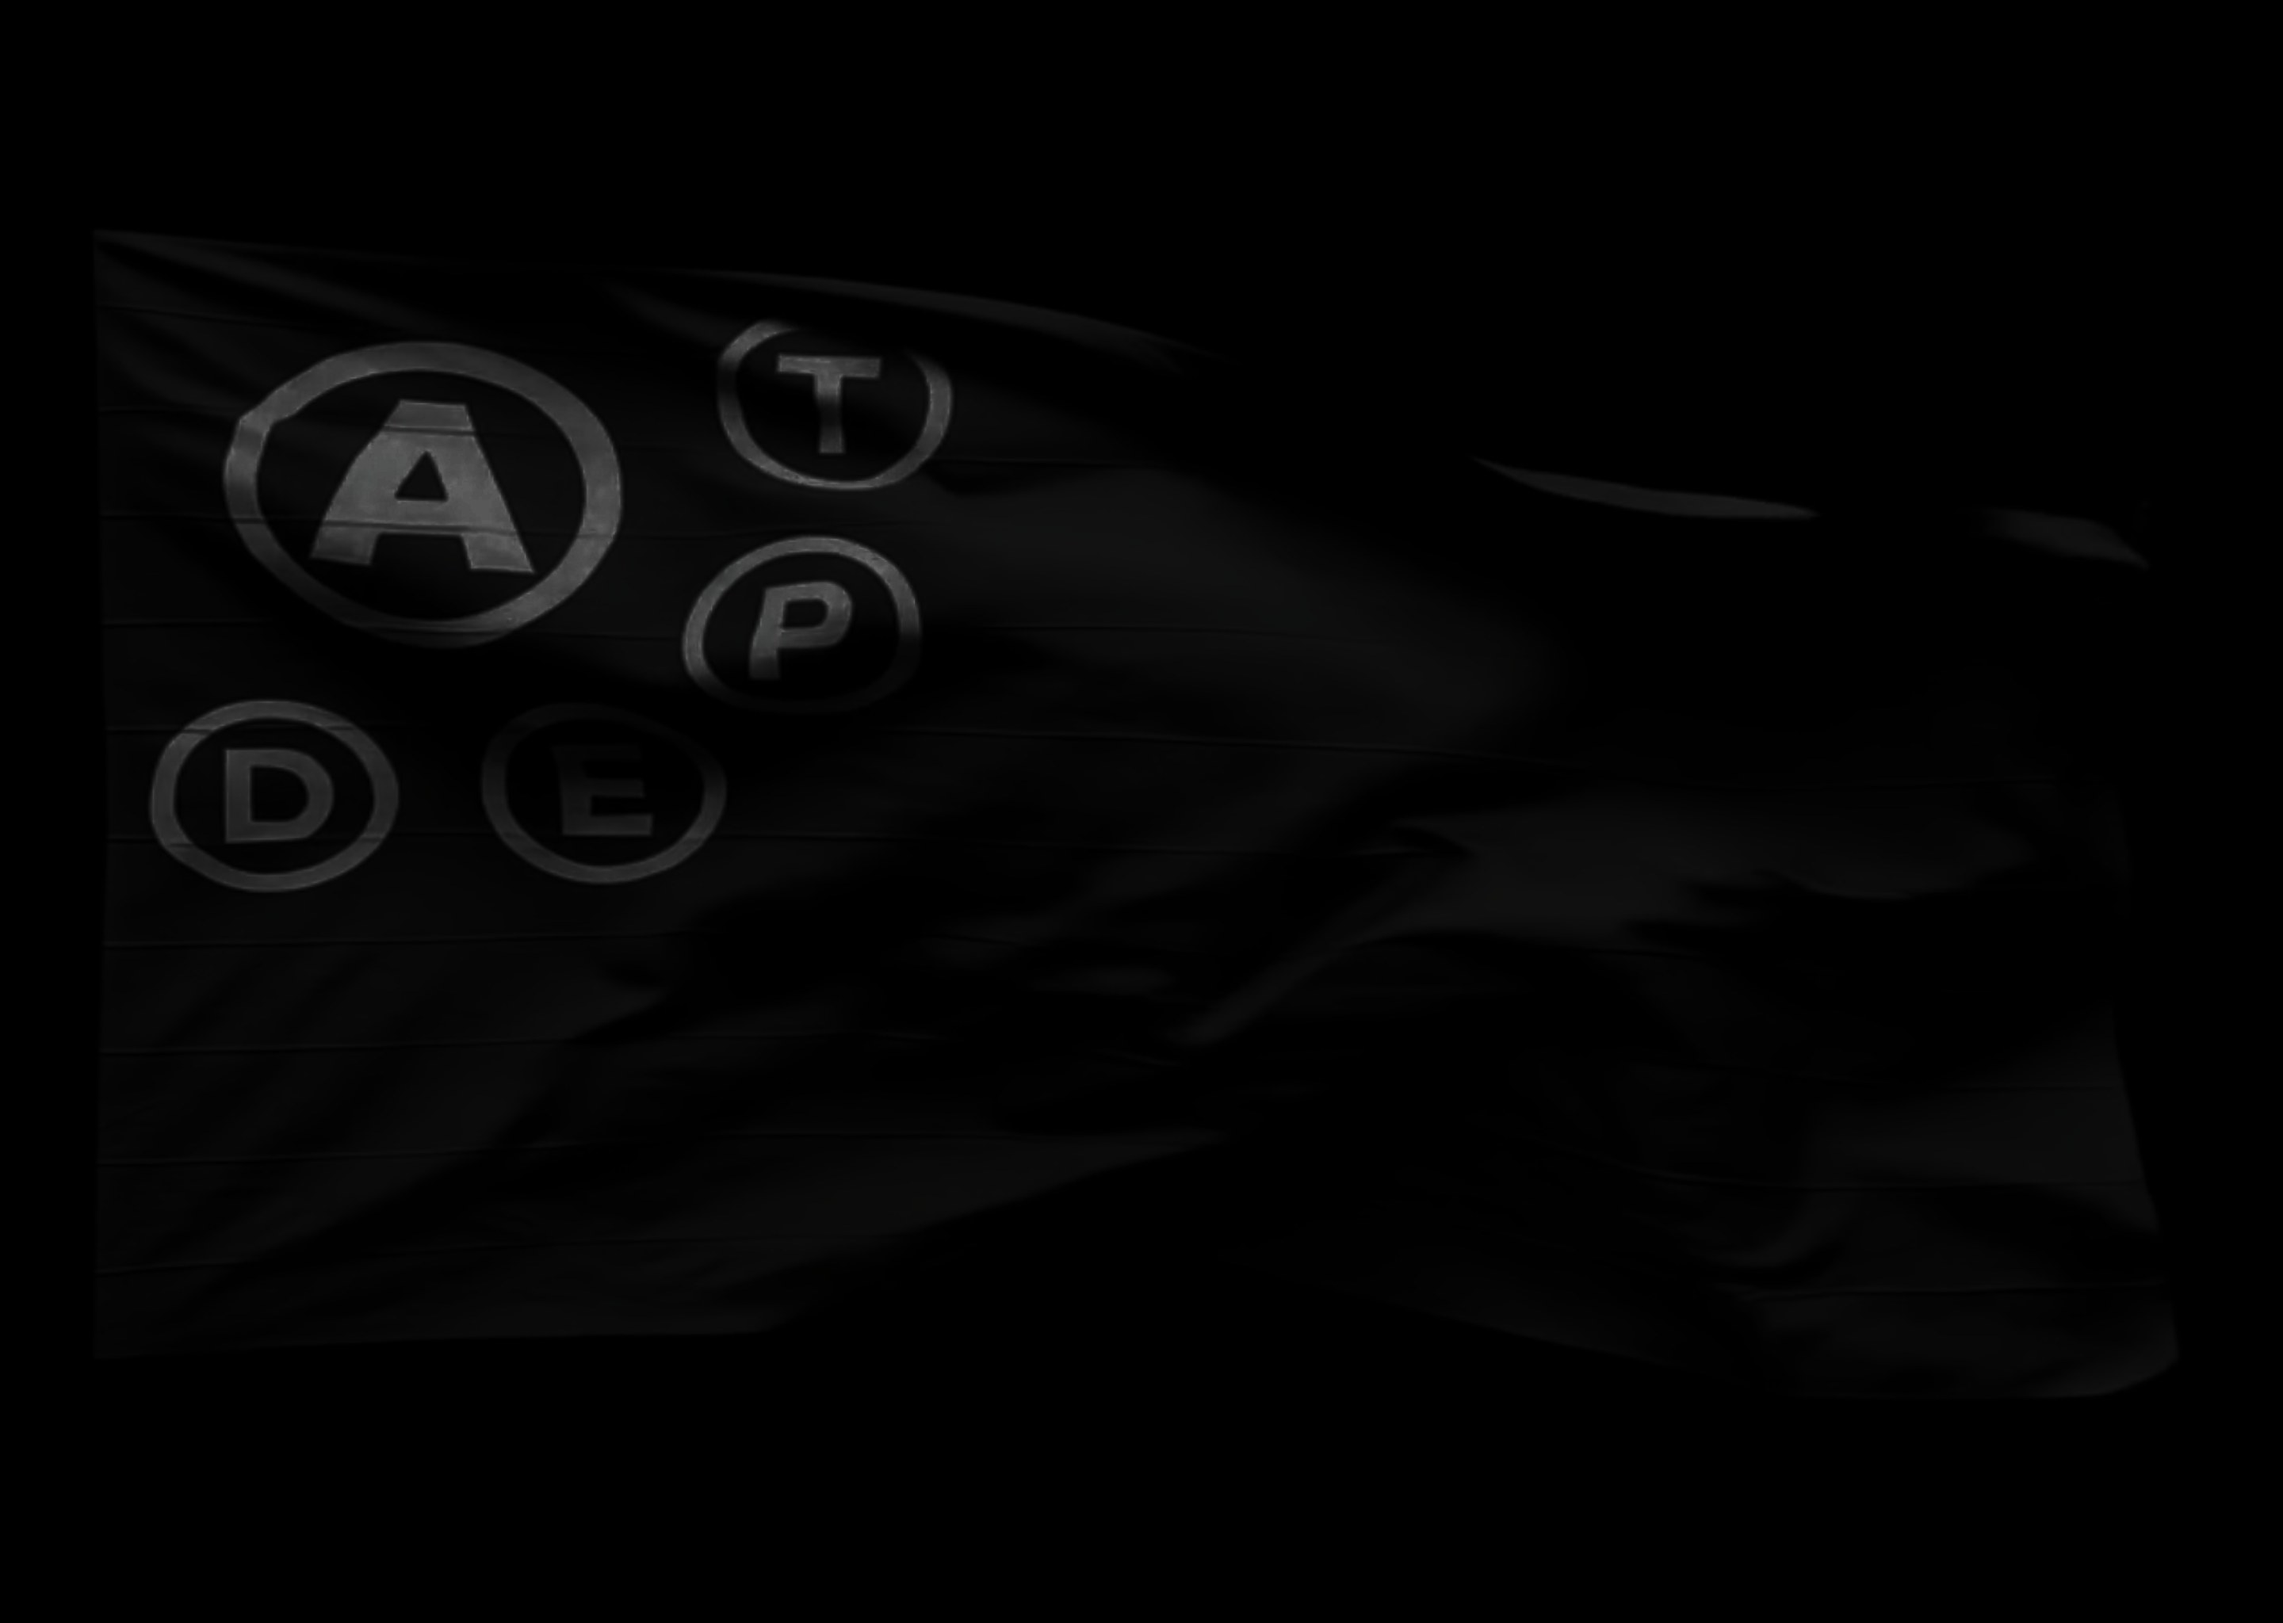
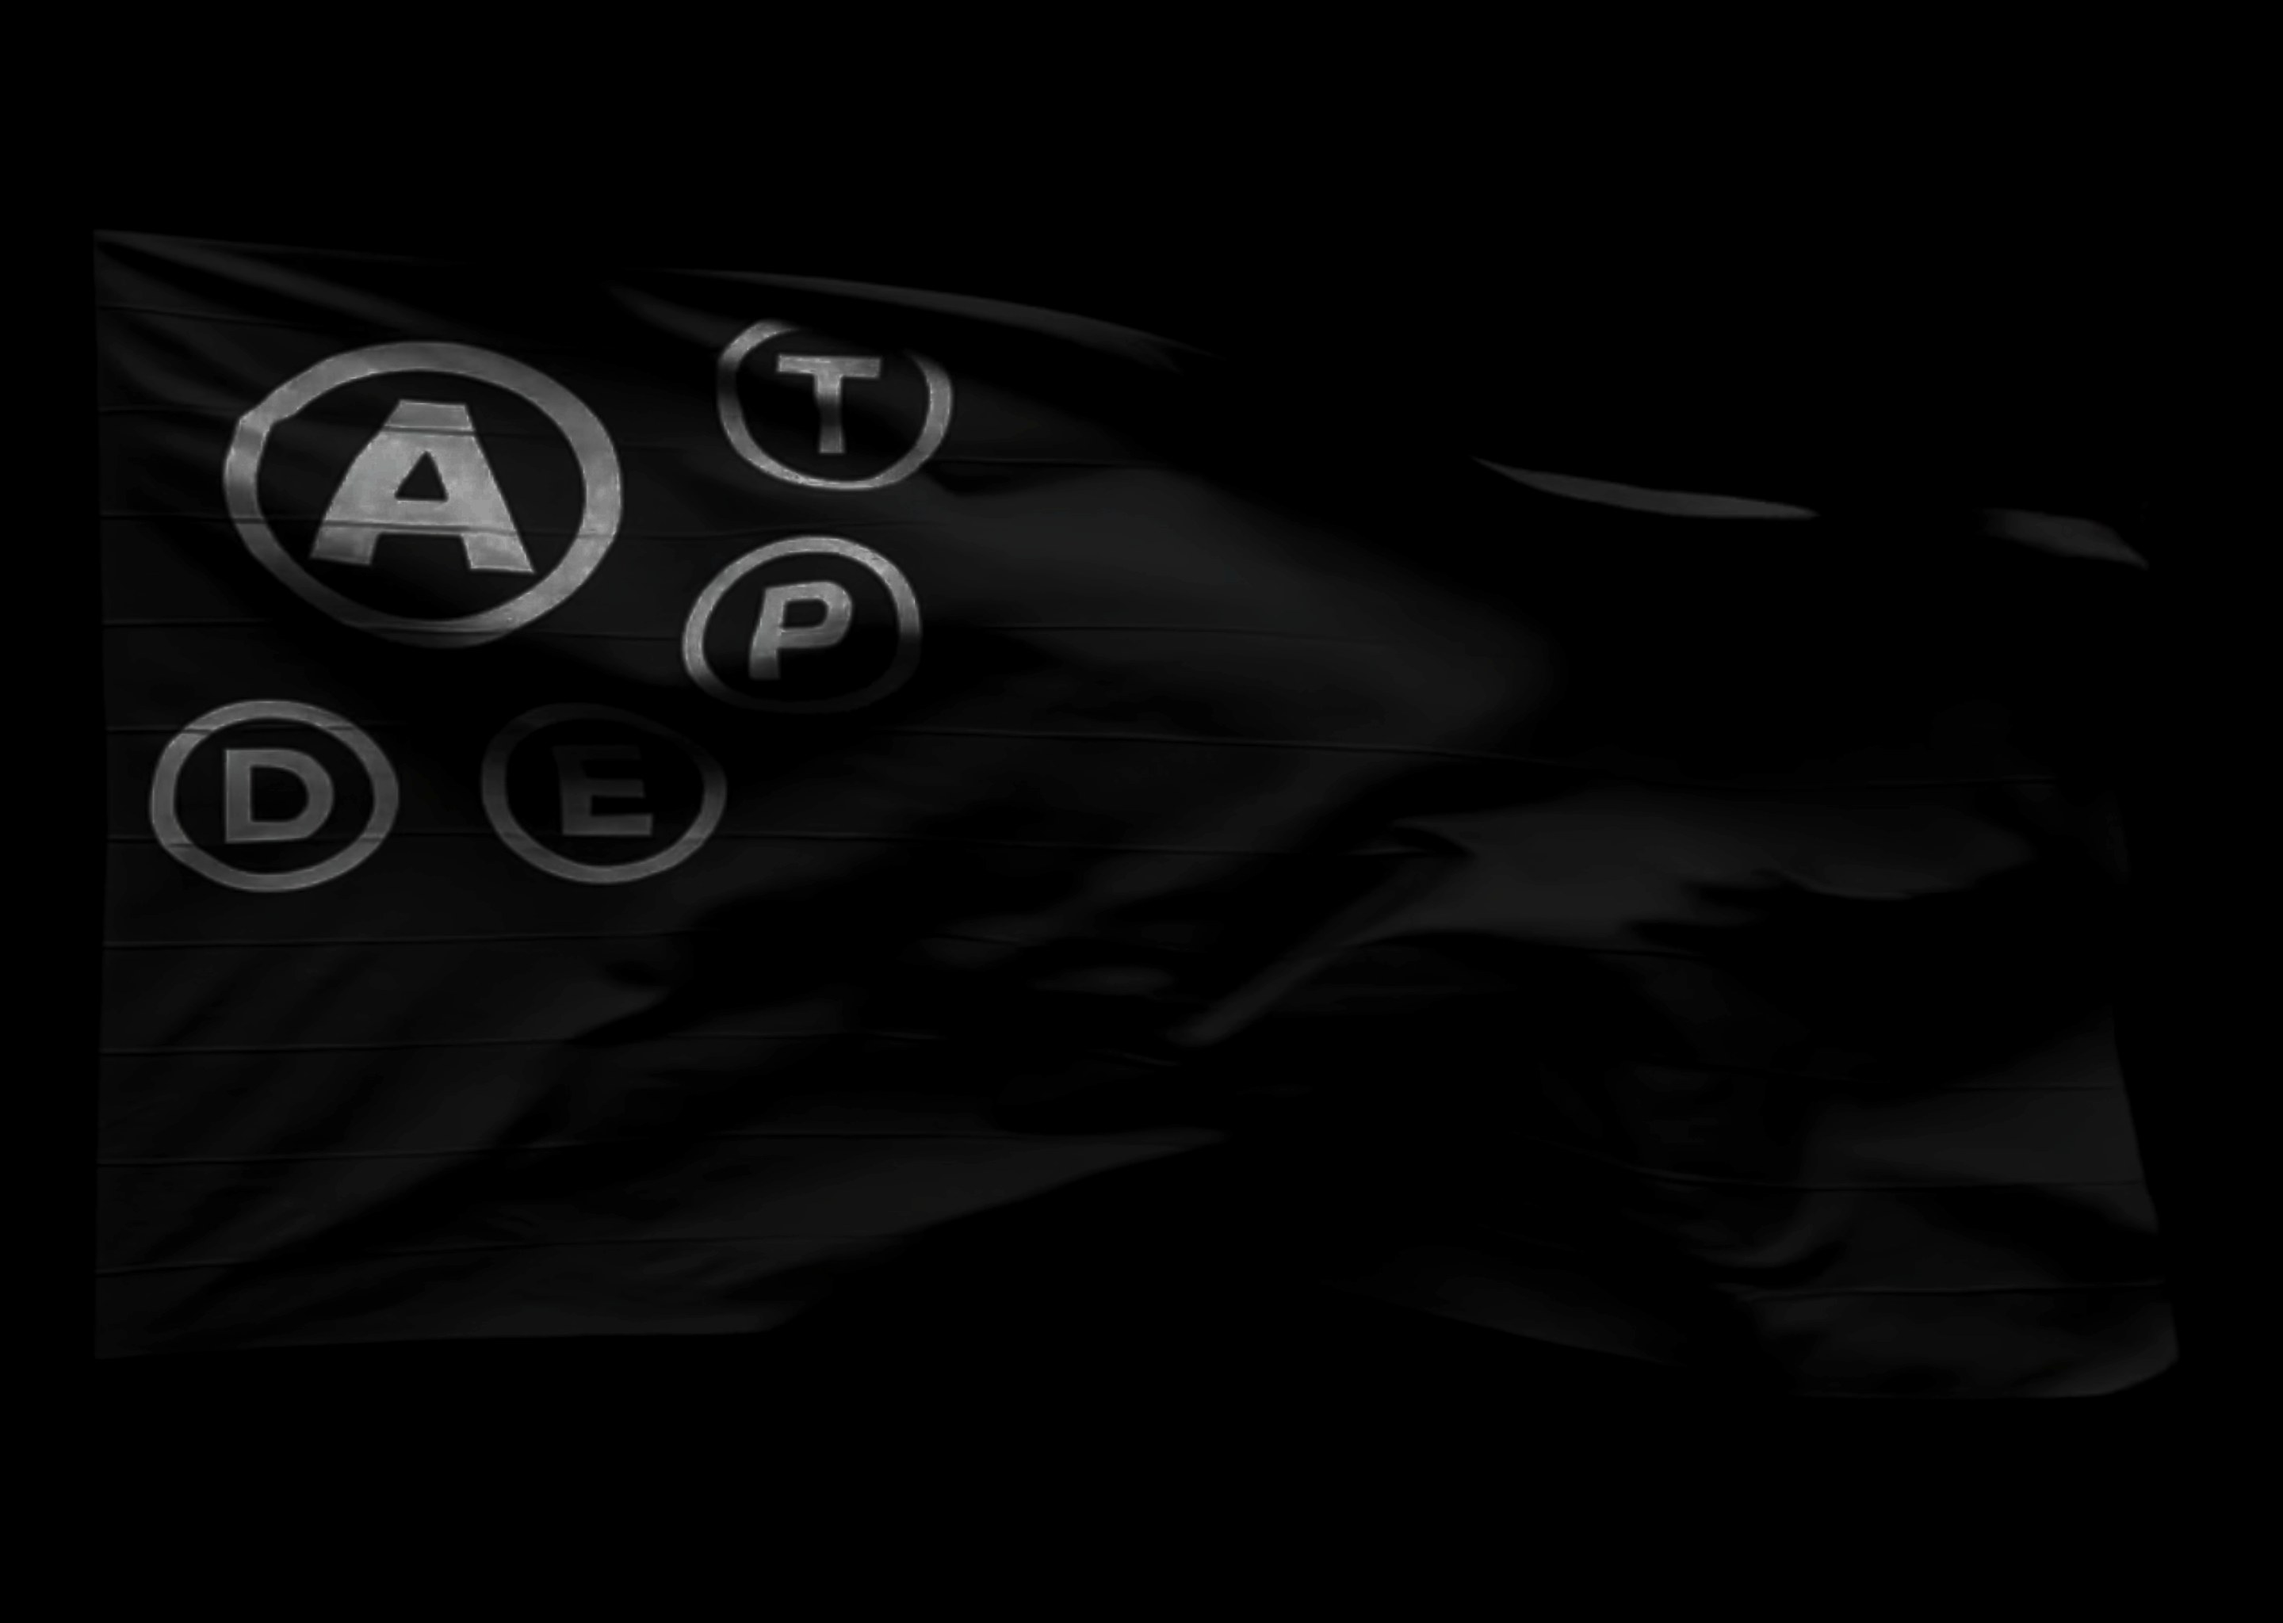
Fix a.dept background photo being invisible
The photo wasn't rendering at all: .adept__bg used position:fixed with
z-index:-1, and body.dark-theme sets an opaque background color on
<body>. That background gets treated as the page's canvas paint, which
always sits behind absolutely everything — including negative-z-index
elements — so the photo was being buried completely rather than just
dimmed. Switched to z-index:0, which combined with DOM order (it's the
first child of body) still keeps it behind the header/content that
follow, but is now actually visible.

Also brightened the exported bg.jpg (was very dark straight off the
original upload) and eased the veil from .35 down from .45, since the
source photo needed more help than the video did to read clearly
through the overlay.

diff --git a/css/style.css b/css/style.css
@@ -1290,14 +1290,23 @@ body.dark-theme .footer { background: #000; }
 .adept__bg {
   position: fixed;
   inset: 0;
-  z-index: -1;
+  /* NOT a negative z-index: with body.dark-theme's opaque background,
+     that gets treated as the canvas paint and sits behind absolutely
+     everything, including negative-z-index elements — burying this
+     photo completely. z-index 0 plus DOM order (first child of body)
+     is enough to keep it behind the header/content that follow it. */
+  z-index: 0;
   overflow: hidden;
   background: #000;
 }
+/* the flag emblem sits on the left third of the source photo — a
+   centred crop pushes it off-screen on narrow (mobile) viewports, so
+   the crop is anchored left instead of centred */
 .adept__bg-photo {
   width: 100%;
   height: 100%;
   object-fit: cover;
+  object-position: left center;
 }
 /* dims the raw photo so it sits quietly behind white text and product
    photos without disappearing outright — the flag is already mostly
@@ -1305,7 +1314,7 @@ body.dark-theme .footer { background: #000; }
 .adept__veil {
   position: absolute;
   inset: 0;
-  background: rgba(0, 0, 0, .45);
+  background: rgba(0, 0, 0, .35);
 }
 
 .adept__header {

diff --git a/index.html b/index.html
@@ -5,7 +5,7 @@
 <meta name="viewport" content="width=device-width, initial-scale=1">
 <title>Artasimn</title>
 <link rel="icon" type="image/svg+xml" href="assets/favicon.svg">
-<link rel="stylesheet" href="css/style.css?v=20260832">
+<link rel="stylesheet" href="css/style.css?v=20260833">
 </head>
 <body>
 
@@ -22,8 +22,8 @@
 
 <footer class="footer"></footer>
 
-<script src="js/data.js?v=20260832"></script>
-<script src="js/site.js?v=20260832"></script>
+<script src="js/data.js?v=20260833"></script>
+<script src="js/site.js?v=20260833"></script>
 <script>
   const cat = new URLSearchParams(location.search).get('cat');
   const validCat = cat === 'jewellery' || cat === 'garment' ? cat : null;

diff --git a/product.html b/product.html
@@ -5,7 +5,7 @@
 <meta name="viewport" content="width=device-width, initial-scale=1">
 <title>Artasimn — Item</title>
 <link rel="icon" type="image/svg+xml" href="assets/favicon.svg">
-<link rel="stylesheet" href="css/style.css?v=20260832">
+<link rel="stylesheet" href="css/style.css?v=20260833">
 </head>
 <body>
 
@@ -17,8 +17,8 @@
 
 <footer class="footer"></footer>
 
-<script src="js/data.js?v=20260832"></script>
-<script src="js/site.js?v=20260832"></script>
+<script src="js/data.js?v=20260833"></script>
+<script src="js/site.js?v=20260833"></script>
 <script>
   const id = new URLSearchParams(location.search).get('id');
   const adeptItem = ADEPT_PRODUCTS.find((p) => p.id === id);

diff --git a/adept.html b/adept.html
@@ -5,7 +5,7 @@
 <meta name="viewport" content="width=device-width, initial-scale=1">
 <title>Artasimn — a.dept</title>
 <link rel="icon" type="image/svg+xml" href="assets/adept/favicon-adept.svg">
-<link rel="stylesheet" href="css/style.css?v=20260832">
+<link rel="stylesheet" href="css/style.css?v=20260833">
 </head>
 <body class="adept dark-theme">
 
@@ -22,8 +22,8 @@
 
 <footer class="footer"></footer>
 
-<script src="js/data.js?v=20260832"></script>
-<script src="js/site.js?v=20260832"></script>
+<script src="js/data.js?v=20260833"></script>
+<script src="js/site.js?v=20260833"></script>
 <script>
   mountAdeptHeader();
   mountFooter('artasimn.department');

diff --git a/privacy.html b/privacy.html
@@ -5,7 +5,7 @@
 <meta name="viewport" content="width=device-width, initial-scale=1">
 <title>Artasimn — Privacy Policy</title>
 <link rel="icon" type="image/svg+xml" href="assets/favicon.svg">
-<link rel="stylesheet" href="css/style.css?v=20260832">
+<link rel="stylesheet" href="css/style.css?v=20260833">
 </head>
 <body>
 
@@ -33,8 +33,8 @@
 
 <footer class="footer"></footer>
 
-<script src="js/data.js?v=20260832"></script>
-<script src="js/site.js?v=20260832"></script>
+<script src="js/data.js?v=20260833"></script>
+<script src="js/site.js?v=20260833"></script>
 <script>
   mountHeader();
   mountFooter();

diff --git a/tattoo-item.html b/tattoo-item.html
@@ -5,7 +5,7 @@
 <meta name="viewport" content="width=device-width, initial-scale=1">
 <title>Artasimn — Tattoo</title>
 <link rel="icon" type="image/svg+xml" href="assets/favicon.svg">
-<link rel="stylesheet" href="css/style.css?v=20260832">
+<link rel="stylesheet" href="css/style.css?v=20260833">
 </head>
 <body>
 
@@ -17,8 +17,8 @@
 
 <footer class="footer"></footer>
 
-<script src="js/data.js?v=20260832"></script>
-<script src="js/site.js?v=20260832"></script>
+<script src="js/data.js?v=20260833"></script>
+<script src="js/site.js?v=20260833"></script>
 <script>
   mountHeader();
   mountFooter();

diff --git a/tattoo.html b/tattoo.html
@@ -5,7 +5,7 @@
 <meta name="viewport" content="width=device-width, initial-scale=1">
 <title>Artasimn — Tattoo</title>
 <link rel="icon" type="image/svg+xml" href="assets/favicon.svg">
-<link rel="stylesheet" href="css/style.css?v=20260832">
+<link rel="stylesheet" href="css/style.css?v=20260833">
 </head>
 <body>
 
@@ -23,8 +23,8 @@
 
 <footer class="footer"></footer>
 
-<script src="js/data.js?v=20260832"></script>
-<script src="js/site.js?v=20260832"></script>
+<script src="js/data.js?v=20260833"></script>
+<script src="js/site.js?v=20260833"></script>
 <script>
   mountHeader();
   mountFooter();

diff --git a/about.html b/about.html
@@ -5,7 +5,7 @@
 <meta name="viewport" content="width=device-width, initial-scale=1">
 <title>Artasimn — About</title>
 <link rel="icon" type="image/svg+xml" href="assets/favicon.svg">
-<link rel="stylesheet" href="css/style.css?v=20260832">
+<link rel="stylesheet" href="css/style.css?v=20260833">
 </head>
 <body>
 
@@ -15,8 +15,8 @@
 
 <footer class="footer"></footer>
 
-<script src="js/data.js?v=20260832"></script>
-<script src="js/site.js?v=20260832"></script>
+<script src="js/data.js?v=20260833"></script>
+<script src="js/site.js?v=20260833"></script>
 <script>
   mountHeader();
   mountFooter();

diff --git a/items.html b/items.html
@@ -5,7 +5,7 @@
 <meta name="viewport" content="width=device-width, initial-scale=1">
 <title>Artasimn — Items</title>
 <link rel="icon" type="image/svg+xml" href="assets/favicon.svg">
-<link rel="stylesheet" href="css/style.css?v=20260832">
+<link rel="stylesheet" href="css/style.css?v=20260833">
 </head>
 <body>
 
@@ -17,8 +17,8 @@
 
 <footer class="footer"></footer>
 
-<script src="js/data.js?v=20260832"></script>
-<script src="js/site.js?v=20260832"></script>
+<script src="js/data.js?v=20260833"></script>
+<script src="js/site.js?v=20260833"></script>
 <script>
   mountHeader();
   mountFooter();

diff --git a/404.html b/404.html
@@ -5,7 +5,7 @@
 <meta name="viewport" content="width=device-width, initial-scale=1">
 <title>Artasimn — 404</title>
 <link rel="icon" type="image/svg+xml" href="assets/favicon.svg">
-<link rel="stylesheet" href="css/style.css?v=20260832">
+<link rel="stylesheet" href="css/style.css?v=20260833">
 </head>
 <body>
 
@@ -18,8 +18,8 @@
 
 <footer class="footer"></footer>
 
-<script src="js/data.js?v=20260832"></script>
-<script src="js/site.js?v=20260832"></script>
+<script src="js/data.js?v=20260833"></script>
+<script src="js/site.js?v=20260833"></script>
 <script>
   mountHeader();
   mountFooter();
